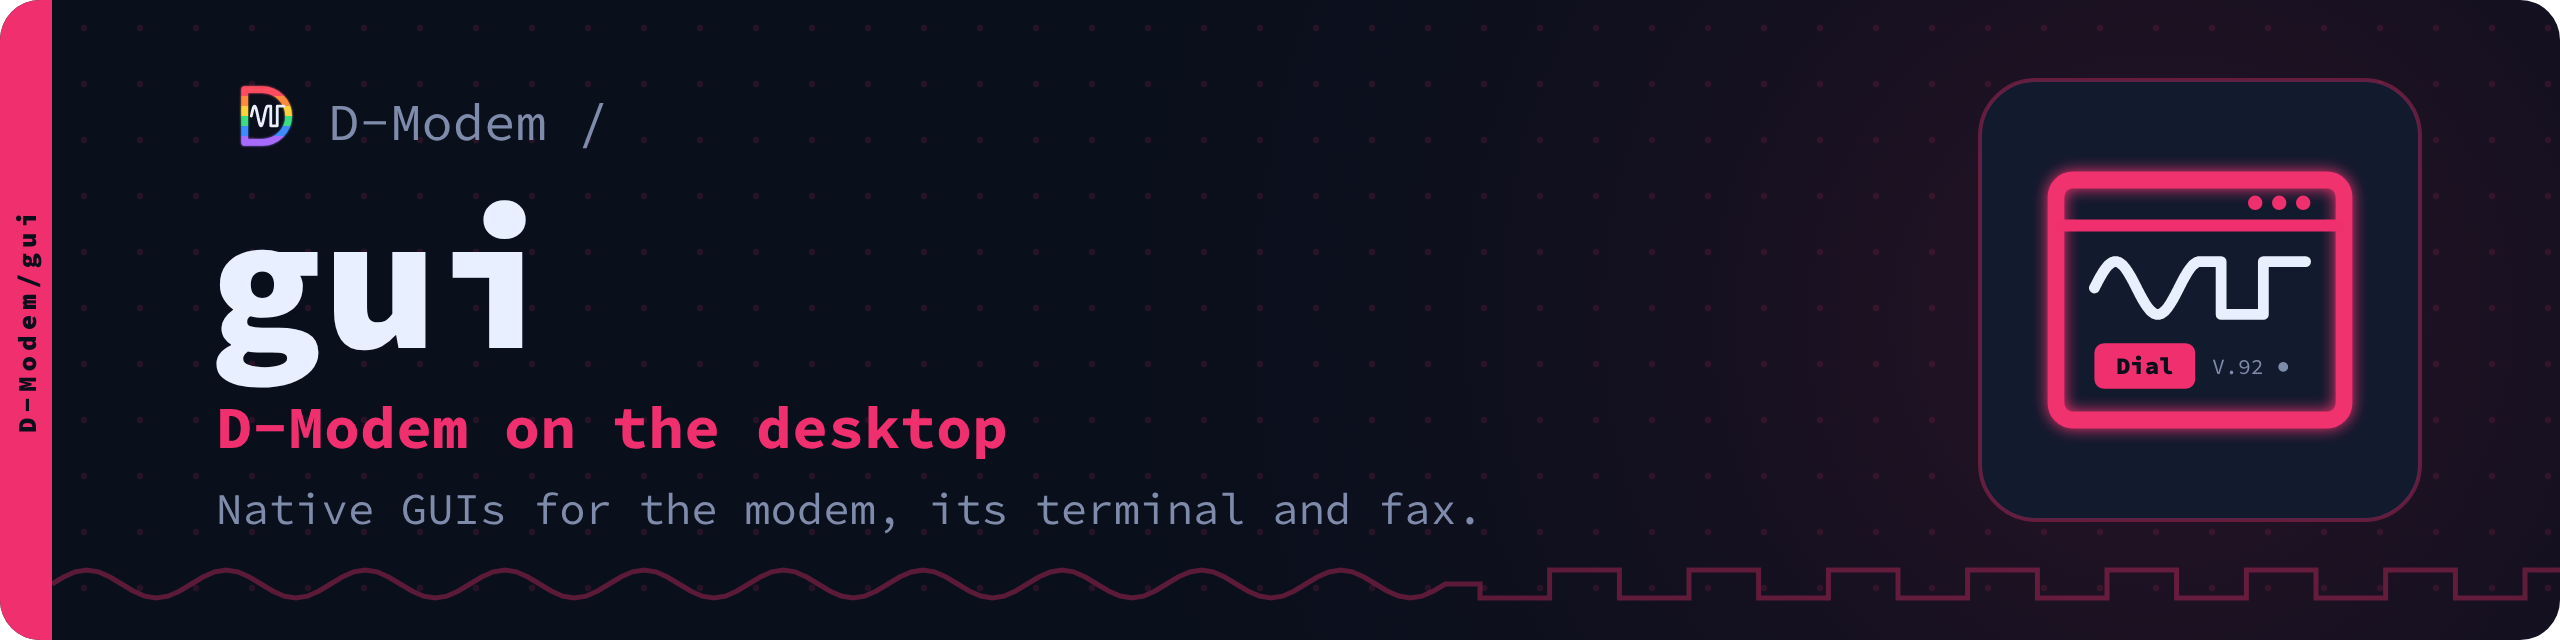
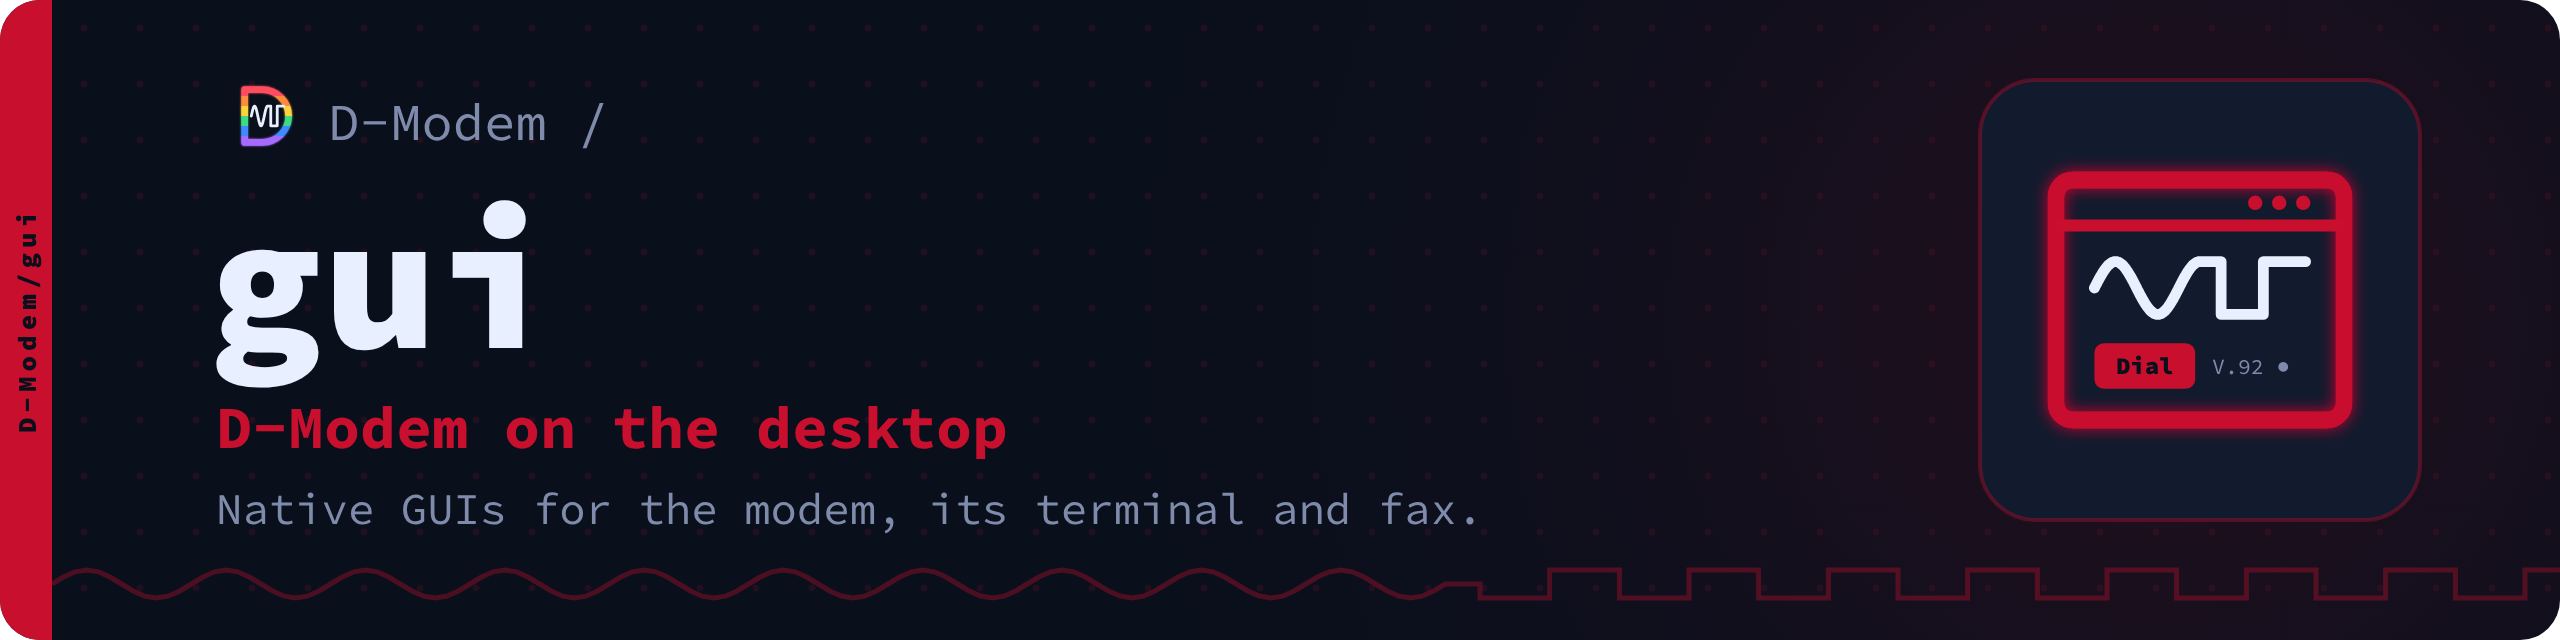
gui: deep scarlet #c8102e (#14)
Further from D-Modem's red than #f0306e, chosen from a swatch sheet.

Claude-Session: https://claude.ai/code/session_01B82eRR7XmhWoFbzJFFFqde

diff --git a/pages/theme/assets/suite/d-modem.css b/pages/theme/assets/suite/d-modem.css
@@ -100,8 +100,8 @@
 .md-typeset .suite-home .grid.cards > ul > li:has(> p:first-child a[href^="https://github.com/D-Modem/bbs"]) { border-left-color: #3d8bff; }
 .md-typeset .suite-home a[href^="https://github.com/D-Modem/go3270"], .md-typeset .suite-home a[href^="https://d-modem.github.io/go3270/"] { color: #a66bff; }
 .md-typeset .suite-home .grid.cards > ul > li:has(> p:first-child a[href^="https://github.com/D-Modem/go3270"]) { border-left-color: #a66bff; }
-.md-typeset .suite-home a[href^="https://github.com/D-Modem/gui"], .md-typeset .suite-home a[href^="https://d-modem.github.io/gui/"] { color: #f0306e; }
-.md-typeset .suite-home .grid.cards > ul > li:has(> p:first-child a[href^="https://github.com/D-Modem/gui"]) { border-left-color: #f0306e; }
+.md-typeset .suite-home a[href^="https://github.com/D-Modem/gui"], .md-typeset .suite-home a[href^="https://d-modem.github.io/gui/"] { color: #c8102e; }
+.md-typeset .suite-home .grid.cards > ul > li:has(> p:first-child a[href^="https://github.com/D-Modem/gui"]) { border-left-color: #c8102e; }
 .md-typeset .suite-home a[href^="https://github.com/D-Modem/brand"], .md-typeset .suite-home a[href^="https://d-modem.github.io/brand/"] { color: #f2f4fa; }
 .md-typeset .suite-home .grid.cards > ul > li:has(> p:first-child a[href^="https://github.com/D-Modem/brand"]) { border-left-color: #f2f4fa; }
 [data-md-color-scheme="default"] .md-typeset .suite-home a[href^="https://github.com/D-Modem/brand"] { color: #5a6380; }

diff --git a/pages/theme/main.html b/pages/theme/main.html
@@ -6,7 +6,7 @@
   {%- set books = {
     "D-Modem": "#ff4d5e", "hardware": "#ff8a3d", "app": "#ffd23d",
     "menu": "#3ddc84", "bbs": "#3d8bff", "go3270": "#a66bff",
-    "gui": "#f0306e", "brand": "#f2f4fa", "D-Modem.github.io": "#3dff9a"
+    "gui": "#c8102e", "brand": "#f2f4fa", "D-Modem.github.io": "#3dff9a"
   } -%}
   <style>:root { --suite-accent: {{ books[config.extra.repo] or "#3dff9a" }}; }</style>
   {%- if config.extra.repo == "D-Modem.github.io" %}

diff --git a/tools/gen.py b/tools/gen.py
@@ -31,7 +31,7 @@ REPOS = {
                      tag="User login and management for dial-up callers", sub="modemmenu: a login, then the BBS, PPP or a shell.",
                      chips=["Go", "PAM", "LDAP", "SQL", "PPP"]),
     # the Scarlet Book (SACD), one of the free ones
-    "gui":      dict(book="Scarlet", color="#f0306e", icon="gui",
+    "gui":      dict(book="Scarlet", color="#c8102e", icon="gui",
                      tag="D-Modem on the desktop", sub="Native GUIs for the modem, its terminal and fax.",
                      chips=["Windows", "macOS", "Linux", "Desktop"]),
     # the White Book (Video CD), one of the free ones, for the brand itself

diff --git a/docs/reference.md b/docs/reference.md
@@ -16,7 +16,7 @@ Each repository's Rainbow Book is its accent: on its banner, its social preview 
 | `bbs` | Blue (CD Extra) | <span class="suite-swatch" style="background:#3d8bff"></span> `#3d8bff` | `bbs` | A bulletin board for every caller | Telnet, TN3270 and modem callers, in Go. | Go, ANSI, TN3270, Doors |
 | `go3270` | Purple (DDCD) | <span class="suite-swatch" style="background:#a66bff"></span> `#a66bff` | `3270` | Go servers for 3270 terminals | Build TN3270 data streams from fields. | Go, TN3270, EBCDIC |
 | `menu` | Green (CD-i) | <span class="suite-swatch" style="background:#3ddc84"></span> `#3ddc84` | `menu` | User login and management for dial-up callers | modemmenu: a login, then the BBS, PPP or a shell. | Go, PAM, LDAP, SQL, PPP |
-| `gui` | Scarlet | <span class="suite-swatch" style="background:#f0306e"></span> `#f0306e` | `gui` | D-Modem on the desktop | Native GUIs for the modem, its terminal and fax. | Windows, macOS, Linux, Desktop |
+| `gui` | Scarlet | <span class="suite-swatch" style="background:#c8102e"></span> `#c8102e` | `gui` | D-Modem on the desktop | Native GUIs for the modem, its terminal and fax. | Windows, macOS, Linux, Desktop |
 | `brand` | White | <span class="suite-swatch" style="background:#f2f4fa"></span> `#f2f4fa` | `books` | Logos, colours and type | The mark, the Rainbow Books, Sauce Code Pro. | SVG, PNG, Rainbow Books, Sauce Code Pro |
 | `suite` | Rainbow | <span class="suite-swatch" style="background:#9fb0d8"></span> `#9fb0d8` | `mark` | The open source dial-up suite | V.92 softmodem, app, boards, BBS and login. | V.92, SIP, Android, RP2040, BBS |
 

diff --git a/docs/palette.md b/docs/palette.md
@@ -14,7 +14,7 @@ full name.
 | Green | CD-i | `#3ddc84` | [menu](https://github.com/D-Modem/menu) |
 | Blue | CD Extra | `#3d8bff` | [bbs](https://github.com/D-Modem/bbs) |
 | Purple | DDCD | `#a66bff` | [go3270](https://github.com/D-Modem/go3270) |
-| Scarlet | SACD | `#f0306e` | [gui](https://github.com/D-Modem/gui) |
+| Scarlet | SACD | `#c8102e` | [gui](https://github.com/D-Modem/gui) |
 | White | Video CD | `#f2f4fa` | [brand](https://github.com/D-Modem/brand) |
 
 Beige (Photo CD) is free for a future repository.
